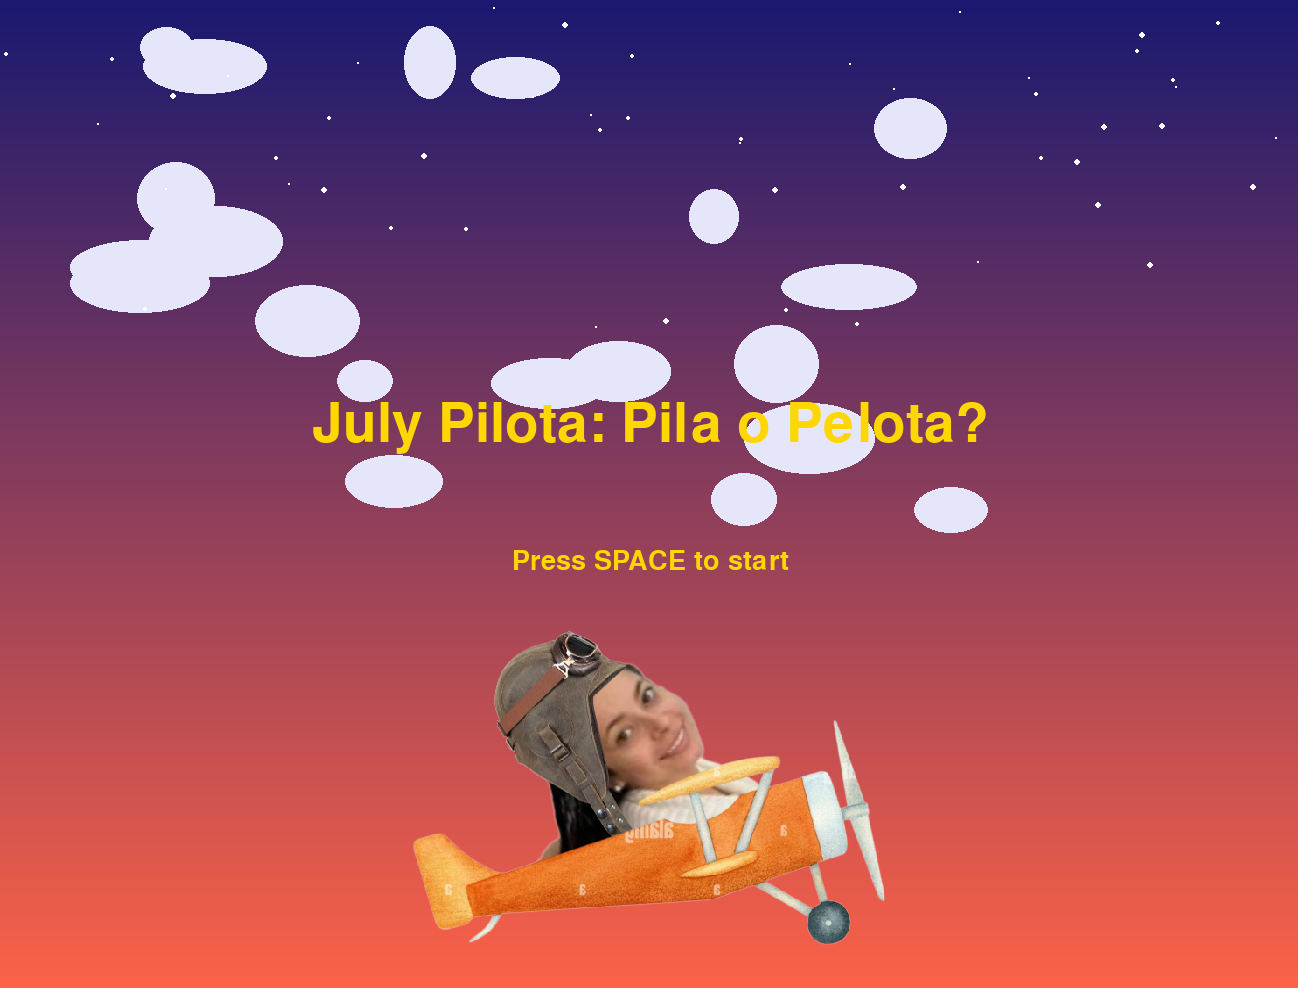
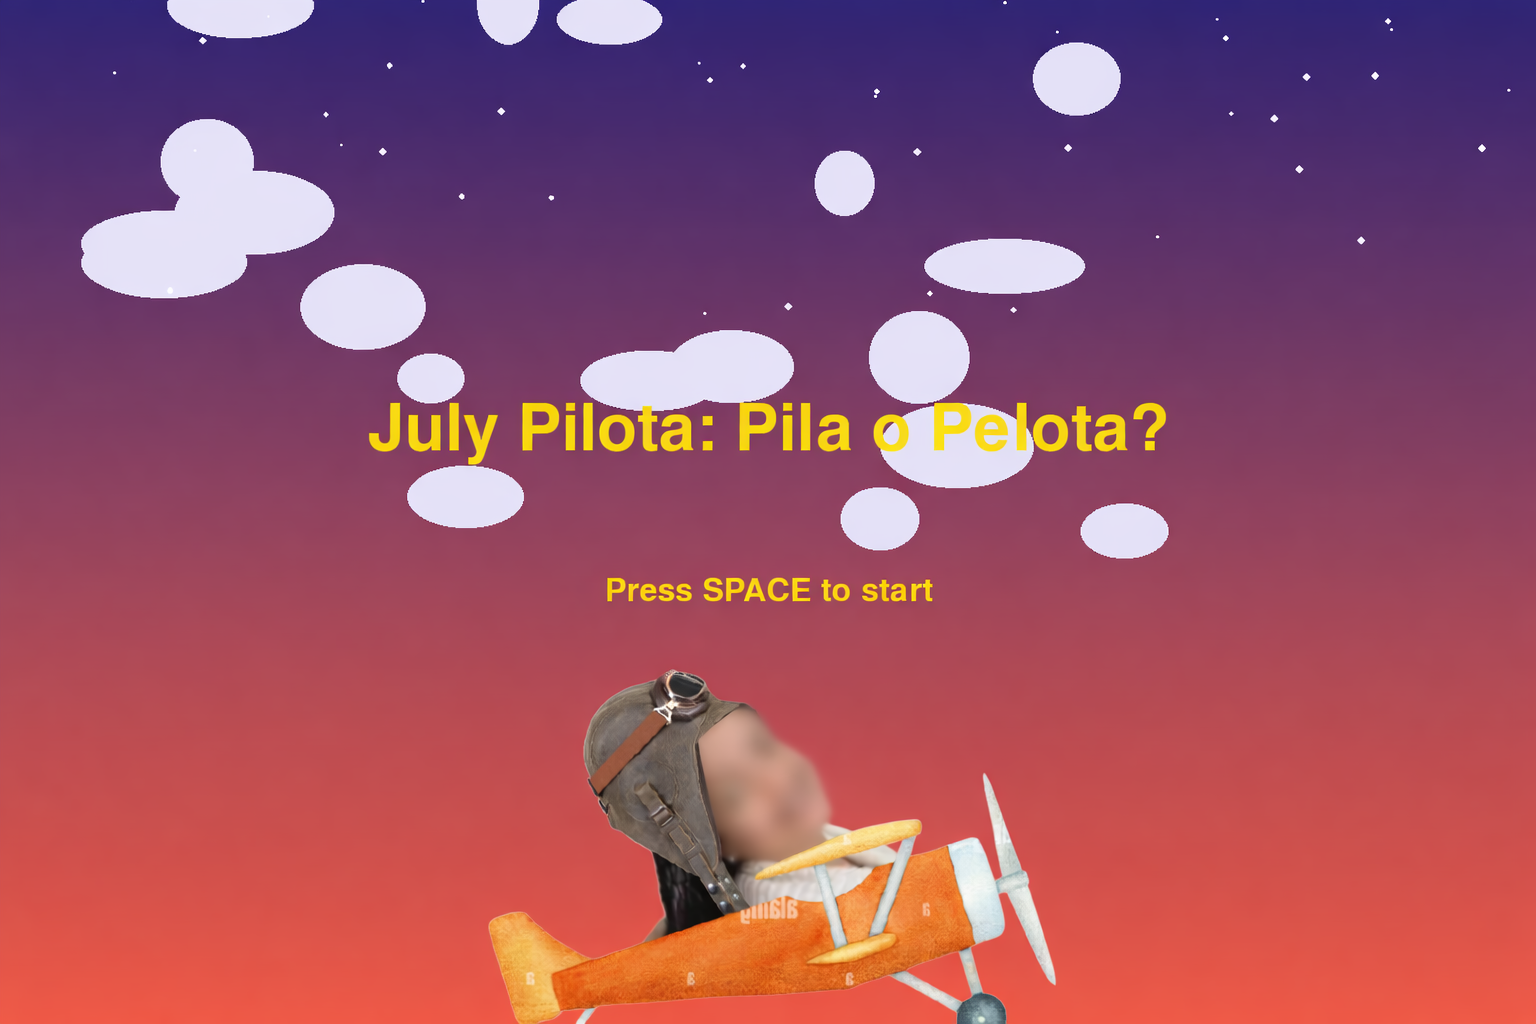
Updated homepage with custom layout

diff --git a/_posts/2025-06-06-guis-drones.md b/_posts/2025-06-06-guis-drones.md
@@ -1,0 +1,293 @@
+---
+title: "GeoTIFF Grid & Crop Tooling — Two Tkinter GUIs That Work Together for Processing Drone Imagery"
+date: 2025-02-12
+categories: my-research
+tags:
+  - geospatial
+  - gdal
+  - tkinter
+  - geotiff
+  - shapefile
+  - drone-imagery
+---
+
+## Overview
+
+This project consists of two tightly related Tkinter desktop GUIs for working with large GeoTIFFs, particularly drone-derived orthomosaics. One tool is a GeoTIFF grid builder and labeling application focused on structure, geometry, and reliable export of spatial data, while the other is a lightweight orthomosaic viewer and cropper optimized for navigation, inspection, and fast extraction of native-resolution subsets. They are intentionally kept separate to avoid overloading a single interface, and together they cover the manual geospatial tasks I found myself repeating most often.
+
+Tool 1, the GeoTIFF Grid Builder, is designed for structure and export: it loads and preprocesses GeoTIFFs, displays them using a multi-resolution image pyramid, draws real-world-sized and rotated grids, labels grid cells using serpentine logic, and exports the resulting geometries as ESRI Shapefiles. Tool 2, the Orthomosaic Viewer and Cropper, is optimized for navigation and extraction: it enables smooth panning and zooming of massive rasters, displays both pixel and map coordinates, and exports the current viewport as a native-resolution GeoTIFF while preserving the original CRS, geotransform, and nodata values. Both tools share the same design philosophy—native GDAL reads and writes, minimal GIS dependencies, desktop-first mouse-driven interaction, and explicit safeguards around coordinate reference systems and pixel geometry.
+
+---
+
+## Tool 1: GeoTIFF Grid Builder
+
+![Animated GIF showing grid workflow](/assets/images/grid.gif)
+
+### What this tool is
+
+A **Tkinter desktop application** for loading GeoTIFF imagery, preprocessing it into a clean, validated TIFF, displaying it efficiently, drawing configurable grids, labeling cells, and exporting those grids as shapefiles.
+
+It is meant for:
+
+* Plot grids
+* Experimental layouts
+* Structured sampling
+* Any situation where grid geometry must match real-world dimensions
+
+---
+
+### Primary Workflow (End-to-End)
+
+1. **Launch**
+
+   * Run `main.py`
+   * A Tkinter window opens and instantiates `GeoTIFFApp` from `app.py`
+
+2. **Open & Pre-process TIFF**
+
+   * Click **“Open & Pre-process TIFF”**
+   * A guided wizard runs in the background:
+
+     * Reads the input GeoTIFF
+     * Optionally strips alpha bands
+     * Optionally downsamples large images
+     * Writes a cleaned `_clean.tif`
+     * Builds a multi-level PIL image pyramid
+     * Runs a full block-by-block integrity check
+     * Displays a preview
+     * Enables **“Load in Viewer”** only if validation passes
+
+3. **Load into Viewer**
+
+   * Spatial metadata is read:
+
+     * CRS
+     * Units
+     * Geotransform
+   * Projection details appear in the sidebar
+   * Warnings are shown for geographic CRS (degrees)
+   * The image pyramid is rendered to the canvas
+
+4. **Grid Creation**
+
+   * Double-click to set the grid anchor point
+   * Configure:
+
+     * Rows / columns
+     * Cell size
+     * Spacing
+     * Rotation
+   * Draw the grid on the canvas
+
+5. **Labeling & Export**
+
+   * Generate serpentine numbering based on:
+
+     * Start corner
+     * Direction
+     * Prefix
+   * Export grid polygons as a shapefile with attributes
+
+---
+
+### UI Layout & Controls
+
+**Main Window (widgets.py)**
+
+* Fixed-width left sidebar with collapsible sections
+* Right-side canvas with scrollbars
+* Bottom status bar for warnings and messages
+
+**Menus**
+
+* **TIFF**
+
+  * Launch preprocessing wizard
+  * Pyramid level slider
+* **Grid**
+
+  * Draw / reset grid
+  * Grid parameter controls
+* **Numbering**
+
+  * Start corner & direction
+  * Start number and prefix
+  * Generate / reset numbering
+  * Export shapefile
+
+**Canvas Interactions**
+
+* Double-click: set anchor
+* Arrow keys: nudge anchor
+* Mouse wheel: change pyramid level
+
+---
+
+### Core Modules
+
+* `main.py` — Minimal entry point
+* `app.py` — App bootstrap and wiring
+* `wizard.py` — Background preprocessing workflow + UI logging
+* `widgets.py` — Tkinter layout and menu wiring
+
+---
+
+### Services & Responsibilities
+
+* **preprocess.py**
+
+  * Reads GeoTIFF via GDAL
+  * Strips alpha bands
+  * Downsamples if needed (default ~100 MB target)
+  * Writes cleaned TIFF
+  * Generates display pyramid
+
+* **check_tiff_integrity.py**
+
+  * Reads every block of every band
+  * Ensures the output TIFF is fully readable
+
+* **metadata.py**
+
+  * Parses CRS and geotransform
+  * Computes pixel sizes (meters where possible)
+  * Handles pixel ↔ geographic coordinate conversion
+
+* **image.py**
+
+  * Manages pyramid levels
+  * Maintains scale factors
+  * Renders the active display image
+
+* **grid.py**
+
+  * Stores anchor and grid geometry
+  * Converts feet → pixels correctly
+  * Draws rotated grid polygons
+  * Generates serpentine numbering
+
+* **export.py**
+
+  * Writes ESRI Shapefiles
+  * Fields: `area_name`, `name`, `area`, `gid`
+  * Writes UTF-8 `.cpg`
+  * Optional WGS84 support
+
+---
+
+### Notable Safeguards
+
+* Explicit warnings for geographic CRS
+* Axis-specific pixel size handling (non-square pixels)
+* Block-level TIFF validation before display
+* No silent assumptions about units or projections
+
+---
+
+## Tool 2: Orthomosaic Viewer & Cropper
+
+![Animated GIF showing cropper workflow](/assets/images/cropper.gif)
+
+### What this tool is
+
+A **small, self-contained GeoTIFF viewer and cropper** for very large orthomosaic rasters.
+
+It is optimized for:
+
+* Fast pan/zoom
+* Inspecting specific regions
+* Exporting exact viewport crops at **native resolution**
+
+---
+
+### What it does
+
+* Opens large orthomosaic GeoTIFFs
+* Builds `.ovr` overviews when missing
+* Renders the visible window to a Tkinter canvas
+* Supports:
+
+  * Mouse drag panning
+  * Mouse wheel zooming
+* Displays:
+
+  * Pixel coordinates
+  * Map coordinates
+* Exports the current view via `gdal.Translate`
+
+  * Uses `srcWin`
+  * Preserves CRS, geotransform, nodata
+  * Always exports **full-resolution data**
+
+---
+
+### Entry Points
+
+The logic is intentionally duplicated with different defaults:
+
+* `main.py`
+
+  * Primary viewer
+  * Extra startup logging
+  * Default: `Orthomosaic.data.tif`
+
+* `hort.py`
+
+  * Same GUI logic
+  * Cleaner startup
+  * Default: `Orthomosaic.data.tif`
+
+* `hort_cropper.py`
+
+  * Same GUI logic
+  * Default: `Orthomosaic.data_HFII.tif`
+
+---
+
+### Launchers
+
+* `run_ortho_cropper_gui.sh`
+* `run_hort_cropper_gui.sh`
+
+Both:
+
+* Launch the GUI
+* Log stdout/stderr to desktop/home
+* Surface GDAL errors cleanly
+
+---
+
+### Display & Export Details
+
+* Non-uint8 rasters are normalized for display
+
+  * Percentile stretch (1–99%)
+* Export always uses:
+
+  * Original data type
+  * Native resolution
+  * Original projection
+
+---
+
+## Data & Environment
+
+**Dependencies**
+
+* Python
+* tkinter
+* Pillow
+* numpy
+* GDAL / OGR / OSR (`osgeo`)
+
+**Environment**
+
+* Conda environment noted as `geotiff_env`
+
+**Data Directories**
+
+* `ROUTINE_IN`, `TEST_IN` — input GeoTIFFs
+* `ROUTINE_OUT`, `TEST_OUT` — exported shapefiles and crops
+
+---
+

diff --git a/_posts/2025-07-31-boy-a-boyfriend-service.md b/_posts/2025-07-31-boy-a-boyfriend-service.md
@@ -35,8 +35,6 @@ If you called it, something happened.
 
 ![Business Card Front](/assets/images/bidnesscard.png)
 
-The idea was simple:
-Curiosity → phone call → experience → punchline → real question.
 
 ---
 
@@ -44,18 +42,13 @@ Curiosity → phone call → experience → punchline → real question.
 
 My first instinct was to spin up my own server to handle calls directly.
 
-That failed for two reasons:
-
-1. Phone call handling is annoying.
-2. I wanted fast iteration and branching logic, not a weekend fighting SIP.
-
-So I pivoted.
+That failed for two reasons: Phone call handling is annoying. I wanted fast iteration and branching logic, not a weekend fighting SIP. So I pivoted.
 
 ---
 
 ## **The Actual Implementation**
 
-I used **Twilio** and its flow-based call system.
+I used Twilio and its flow-based call system and I did not have to build a custom back-end.
 
 This let me:
 
@@ -64,8 +57,6 @@ This let me:
 * Branch logic based on keypad input
 * Play hosted MP3s
 * Inject recorded voice lines at key moments
-
-No custom backend. No pain.
 
 ---
 
@@ -91,7 +82,7 @@ High-level flow:
 
 ### **Option 1**
 
-**Malumaa**
+**Maluma**
 Colombian pop star.
 Six-pack included.
 Possibly too sexy.
@@ -130,7 +121,7 @@ This one worked.
 
 ---
 
-## **EEEEEE**
+## **She picked me :3**
 
 After selecting Option 3, the system switches tone.
 
@@ -175,8 +166,7 @@ A song plays.
 
 * Voice UX design
 * State-based logic
-* Timing, pacing, and emotional beats
-* Comedy writing under constraints
+
 
 Emotionally, it was a gamble.
 
